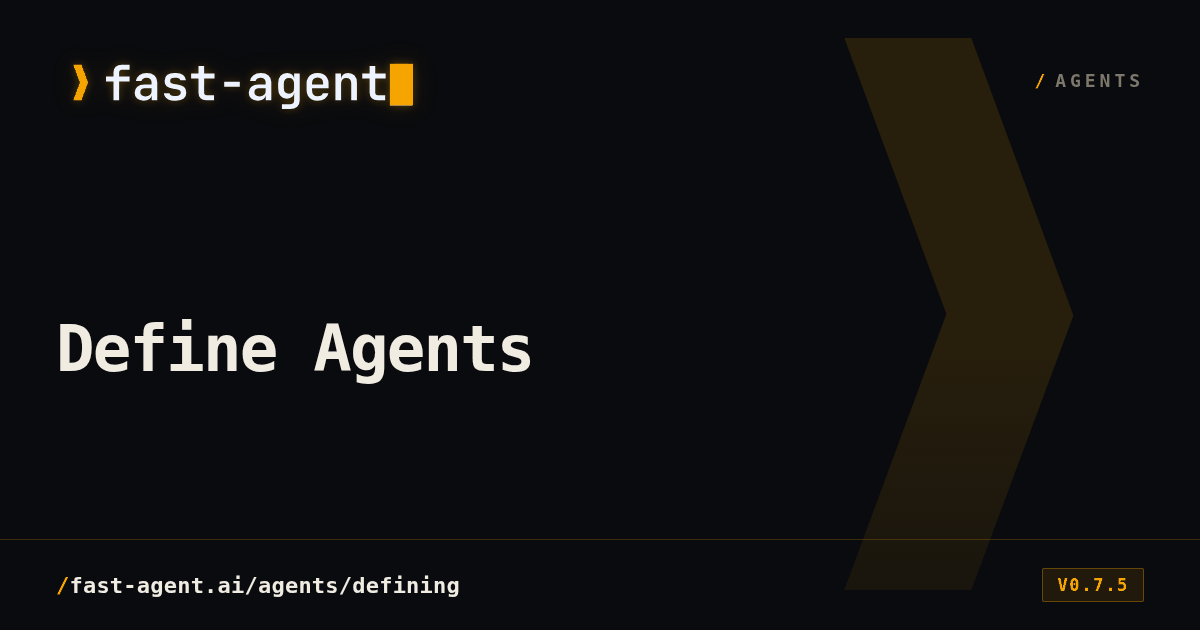
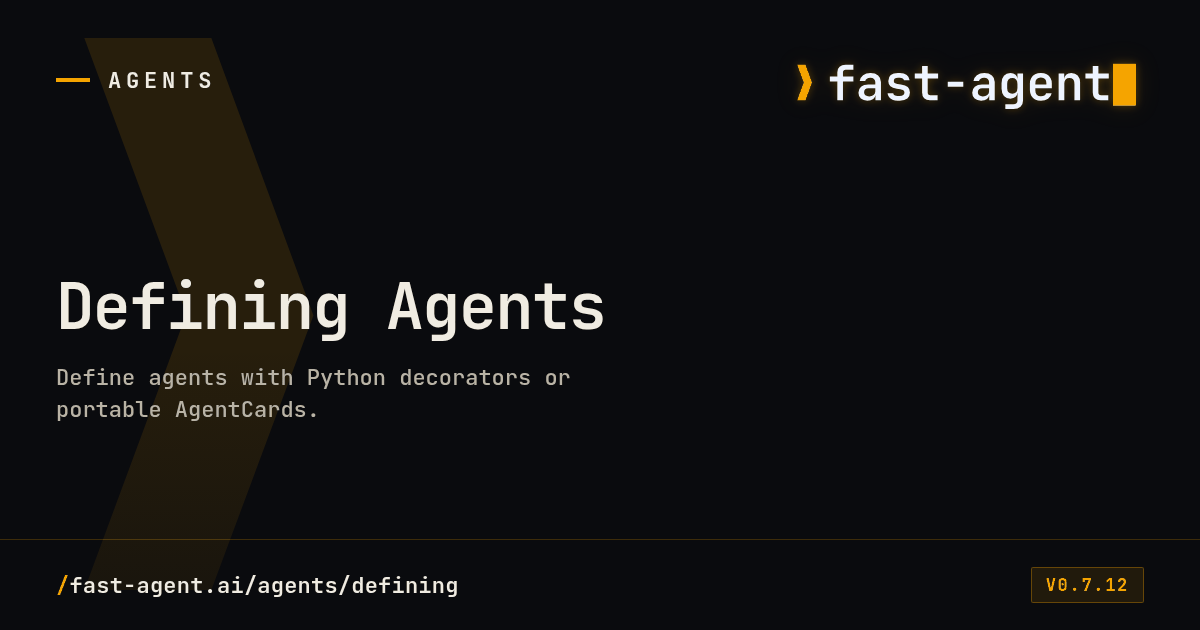
update model docs

diff --git a/src/fast_agent/config.py b/src/fast_agent/config.py
@@ -1055,7 +1055,6 @@ class CodexResponsesSettings(ResponsesProviderSettingsBase):
     )
 
 
-
 class DeepSeekSettings(BaseModel):
     """Settings for using DeepSeek models in the fast-agent application."""
 
@@ -1893,7 +1892,9 @@ def get_settings(
 
     global _settings
 
-    env_dir_override = Path(env_dir) if env_dir is not None and not isinstance(env_dir, str) else env_dir
+    env_dir_override = (
+        Path(env_dir) if env_dir is not None and not isinstance(env_dir, str) else env_dir
+    )
 
     # If we have a specific config path, always reload settings
     # This ensures each test gets its own config

diff --git a/docs/docs/agents/defining/index.md b/docs/docs/agents/defining/index.md
@@ -1,0 +1,17 @@
+---
+title: Defining Agents
+social:
+  title: Defining Agents
+  tagline: Define agents with Python decorators or portable AgentCards.
+  description: Define agents with Python decorators or portable AgentCards.
+  alt: fast-agent social card — Defining Agents
+---
+
+# Defining Agents
+
+**fast-agent** supports two complementary ways to define agents:
+
+- [Python API](python_api/) — define agents and workflows in Python with decorators such as `@fast.agent`.
+- [Agent Cards](agent_cards/) — define portable AgentCards and ToolCards that can be loaded by `fast-agent go`, the TUI, and card tooling.
+
+Use the Python API when you are building an application. Use Agent Cards when you want portable, reusable agent definitions that can be loaded from files or shared with a team.

diff --git a/docs/docs/guides/core-concepts.md b/docs/docs/guides/core-concepts.md
@@ -22,7 +22,7 @@ One agent is the default. Add another agent by dropping a Markdown file into
 <div class="fa-hero__actions">
   <a class="fa-btn fa-btn--primary" href="#make-your-first-environment">Build one</a>
   <a class="fa-btn" href="#share-it-as-a-pack">Share as a pack</a>
-  <a class="fa-btn" href="../ref/agent_cards/">AgentCard reference</a>
+  <a class="fa-btn" href="../agents/defining/agent_cards/">AgentCard reference</a>
 </div>
 
 <div class="fa-term" aria-label="fast-agent TUI example">
@@ -69,7 +69,7 @@ The defaults are deliberately useful:
 - ToolCards in `<env>/tool-cards/` are loaded and attached as tools.
 - Sessions are saved in `<env>/sessions/` so you can resume work later.
 - Skills are discovered from the active environment's `skills/` directory
-  (normally `.fast-agent/skills`), plus `.agents/skills` and `.claude/skills`.
+  (normally `.fast-agent/skills`), plus `.guides/skills` and `.claude/skills`.
 
 <section class="fa-grid fa-grid--3" markdown="1">
 <article class="fa-card" markdown="1">
@@ -370,7 +370,7 @@ references and assets. They let agents load specialized procedures only when
 needed. By default, fast-agent looks in:
 
 - the active environment's `skills/` directory — normally `.fast-agent/skills`
-- `.agents/skills`
+- `.guides/skills`
 - `.claude/skills`
 
 The easiest way to get started is to install skills from an existing registry
@@ -427,7 +427,7 @@ skills:
     - https://github.com/my-org/private-skills
 ```
 
-See [Agent Skills](../agents/skills/) for the full skill workflow.
+See [Agent Skills](skills/) for the full skill workflow.
 
 ## Share it as a pack
 
@@ -565,11 +565,11 @@ An environment is just a folder. Start with one default card, add focused agents
 as Markdown files, then publish the bundle when it becomes useful.
 </div>
 <div markdown="1">
-<a class="fa-btn fa-btn--primary" href="../ref/agent_cards/">Read AgentCards</a>
+<a class="fa-btn fa-btn--primary" href="../agents/defining/agent_cards/">Read AgentCards</a>
 </div>
 </div>
 
-- [AgentCards and ToolCards](../ref/agent_cards/) — advanced card fields,
+- [Agent Cards](../agents/defining/agent_cards/) — advanced card fields,
   ToolCards, runtime MCP targets and loading rules.
 - [Configuration Reference](../ref/config_file/) — every `fast-agent.yaml`
   setting, including providers, MCP, sessions, skills and model references.

diff --git a/docs/docs/ref/config_file.md b/docs/docs/ref/config_file.md
@@ -177,9 +177,10 @@ Anthropic models fall into three groups:
 - **Budget-based thinking** (older models): defaults to a 1024 token budget. Set `reasoning` to a
   budget integer or disable with `"0"`/`off`/`false`. You can also pass `low`/`medium`/`high`/`max`,
   which map to preset budgets.
-- **Adaptive thinking** (e.g. `claude-opus-4-6`): defaults to `auto` (provider‑chosen). Use effort
-  levels (`low`/`medium`/`high`/`max`) to set `output_config.effort`. Budgets are not supported on
-  adaptive models.
+- **Adaptive thinking** (e.g. `claude-opus-4-6`, `claude-opus-4-7`, `claude-opus-4-8`): defaults
+  to `auto` (provider-chosen). Use effort levels (`low`/`medium`/`high`/`max`, plus `xhigh` where
+  advertised) to set `output_config.effort`. Fixed thinking budgets are deprecated for these models;
+  Opus 4.7+ additionally supports `task_budget` for model-visible agent-loop budgets.
 
 For budget models, the reasoning budget must be lower than `max_tokens` (fast-agent raises
 `max_tokens` if needed).
@@ -611,7 +612,7 @@ skills:
 | `directories` | List of directories to search for SKILL.md files | environment skills directory (default `.fast-agent/skills`), `.claude/skills` |
 | `marketplace_urls` | List of skill registries for `/skills add` | HuggingFace and Anthropic registries |
 
-See [Agent Skills](../agents/skills/) for more information on using skills.
+See [Agent Skills](../guides/skills/) for more information on using skills.
 
 ## Command Plugin Configuration
 

diff --git a/docs/docs/acp/index.md b/docs/docs/acp/index.md
@@ -156,4 +156,4 @@ Conflicts (fail fast):
 
 ## Structured Outputs
 
-Experimental support for returning [Structured Outputs](../guides/structured-outputs.md#acp-agent-client-protocol) is available.
+Experimental support for returning [Structured Outputs](../guides/structured-outputs/#acp-agent-client-protocol) is available.

diff --git a/docs/docs/index.md b/docs/docs/index.md
@@ -99,7 +99,7 @@ social:
     <p>
       Template based <a href="agents/instructions">System Prompts</a>. Install and update Agent Skills, prompt files or Agent definitions.
     </p>
-    <a href="agents/skills/">Agent Skills</a>
+    <a href="guides/skills/">Agent Skills</a>
   </article>
 </section>
 